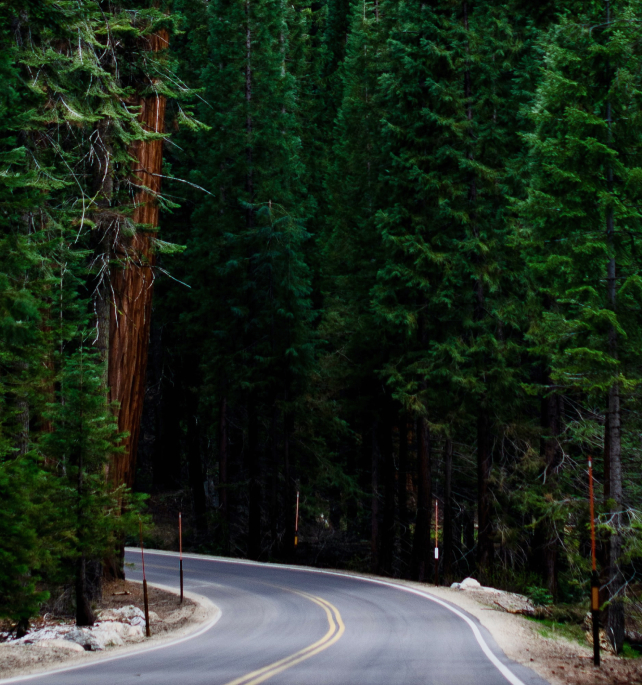
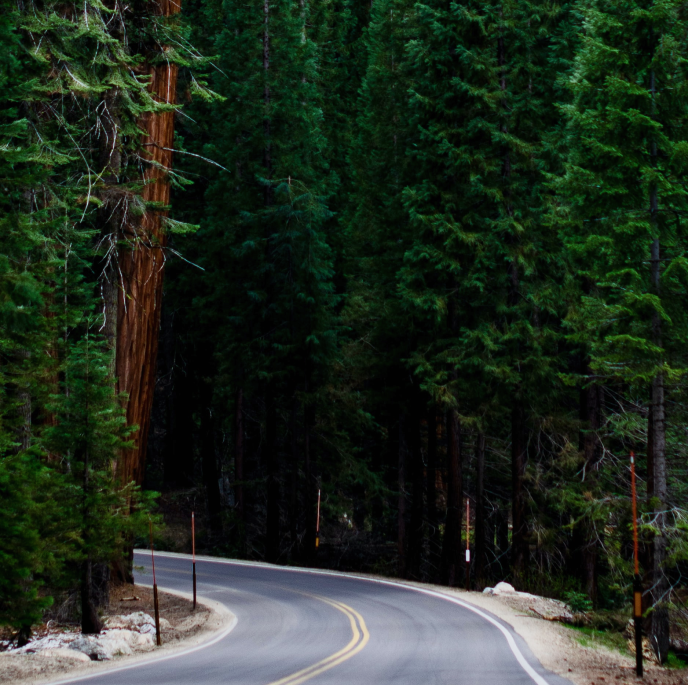
Twelfth commit

diff --git a/index.html b/index.html
@@ -52,12 +52,33 @@
         <h1 class="course__title">Курс по фотографии</h1>
         <img class="course__image"   src="./images/Лес _1_пр.png" alt="Лес">
         <p class="course__subtitle">Фотография в природных условиях, уроки по композиции и по пользованию камерой.</p>
-        <button class="course__button" type="button" aria-label="Открывает котнтен Подробнее">Подробнее</button>
+        <button class="button" type="button" aria-label="Открывает котнтен Подробнее">Подробнее</button>
       </section>
 
       <!-- Второй блок Изучите композицию -->
       <section class="composition">
+        <div class="composition__intro">
+          <p class="composition__intro-line"></p>
+          <p class="composition__text">Композиция</p>
+          <h2 class="composition__title">Изучите композицию</h2>
+        </div>
+       <img class="composition__image composition__image_hidden" src="./images/Лес и дорога_2_1.jpg" alt="Дорога в густом лесу">
+       <img class="composition__image composition__image_show" src="./images/Лес и дорога_2.jpg" alt="Дорога в густом лесу">
+        <div class="composition__info">
+          <p class="composition__info-text">Вы изучите гармоничное размещение всех элементов изображения на <span class="composition__info-text-bold">снимке</span>.</p>
+          <p class="composition__info-text">Изучите композицию интуитивную и&nbsp;какие-&nbsp;то определённые законы.</p>
+          <button class="button button_write-down" type="button" aria-label="Открывает котнтен Записаться">Записаться</button>
+        </div>
 
+        <div class="composition__footer">
+          <p class="composition__footer-text">Првило третей, при котором нужно распологать объекты на пересечениях.</p>
+          <p class="composition__footer-line"></p>
+          <p class="composition__footer-text">Простота: убирай всё лишнее и&nbsp;кадрируй!</p>
+          <p class="composition__footer-line"></p>
+          <p class="composition__footer-text">Равновесие: уравновесь пятна объекта и фона.</p>
+          <p class="composition__footer-line"></p>
+          <p class="composition__footer-text">3D глубина кадра: расположи объект позади и перед другими предметами.</p>
+        </div>
       </section>
 
       <!-- Третий блок Настройка, Сьемка, Обработка -->

diff --git a/pages/index.css b/pages/index.css
@@ -34,6 +34,7 @@
 @import url(../blocks/course/__title/course__title.css);
 @import url(../blocks/course/__image/course__image.css);
 @import url(../blocks/course/__subtitle/course__subtitle.css);
+@import url(../blocks/button/button.css);
 @import url(../blocks/course/__button/course__button.css);
 
 
@@ -41,6 +42,19 @@
 
 /* Второй блок Изучите композицию */
 @import url(../blocks/composition/composition.css);
+@import url(../blocks/composition/__intro-line/composition__intro-line.css);
+@import url(../blocks/composition/__text/composition__text.css);
+@import url(../blocks/composition/__title/composition__title.css);
+@import url(../blocks/composition/__info/composition__info.css);
+@import url(../blocks/composition/__info-text/composition__info-text.css);
+@import url(../blocks/composition/__info-text-bold/composition__info-text-bold.css);
+@import url(../blocks/composition/__image/composition__image.css);
+@import url(../blocks/composition/_hidden/composition__image_hidden.css);
+@import url(../blocks/composition/_show/composition__image_show.css);
+@import url(../blocks/button/_write-down/button_write-down.css);
+@import url(../blocks/composition/__footer/composition__footer.css);
+@import url(../blocks/composition/__footer-text/composition__footer-text.css);
+@import url(../blocks/composition/__footer-line/composition__footer-line.css);
 
 
 

diff --git a/blocks/composition/composition.css b/blocks/composition/composition.css
@@ -1,2 +1,28 @@
 /* Самые общие стили блока composition */
+.composition {
+  /* border: 1px solid black; */
+  background: #FFCE00;
+  padding: 50px;
+  display: grid;
+  grid-template-columns: repeat(2, 1fr);
+  grid-template-rows: min-content 1fr min-content;
+}
 
+@media screen and (max-width: 999px) {
+  .composition {
+    padding-top: 38px;
+    padding-left: 38px;
+    padding-bottom: 39px;
+    grid-template-columns: 1fr;
+    grid-template-rows: repeat(4, auto);
+  }
+}
+
+@media screen and (max-width: 499px) {
+  .composition {
+    padding-top: 20px;
+    padding-bottom: 20px;
+    padding-right: 18px;
+    padding-left: 19px;
+  }
+}

diff --git a/blocks/button/button.css b/blocks/button/button.css
@@ -1,28 +1,24 @@
-.course__button {
+/* стили кнопки */
+.button {
   background: #fff;
   border: 2px solid #000;
   border-radius: 9999px;
   line-height: 29px;
   font-size: 18px;
   font-weight: 400;
-  justify-self: start;
-  align-self: end;
-  /* padding-top: 10px;
-  padding-bottom: 10px; */
   width: 228px;
   height: 49px;
   cursor: pointer;
   transition: 0.1s;
- 
 }
 
-.course__button:hover {
+.button:hover {
   font-weight: 500;
 }
 
 
 @media screen and (max-width: 499px) {
-  .course__button {
+  .button {
     line-height: 28px;
     font-size: 14px;
     width: 169px;

diff --git a/blocks/composition/__footer/composition__footer.css b/blocks/composition/__footer/composition__footer.css
@@ -1,0 +1,24 @@
+/* стили подвала блока */
+.composition__footer {
+  margin-top: 100px;
+  padding-left: 4px;
+  padding-right: 4px;
+  grid-column: 1/3;
+  grid-row: 3/4;
+  display: grid;
+  grid-template-columns: repeat(4, 1fr);
+  grid-template-rows: 1fr;
+  column-gap: 56px;
+}
+
+@media screen and (max-width: 999px) {
+  .composition__footer {
+    /* border: 1px solid red; */
+    column-gap: 0px;
+    margin-top: 80px;
+    grid-column: 1/2;
+    grid-row: 4/5;
+    grid-template-columns: 1fr;
+    grid-template-rows: repeat(7, auto);
+  }
+}

diff --git a/blocks/composition/__title/composition__title.css b/blocks/composition/__title/composition__title.css
@@ -1,0 +1,26 @@
+/* стили заголовка блока композиция */
+.composition__title {
+  /* border: 1px solid blue; */
+  margin: 0;
+  margin-top: 50px;
+  margin-bottom: 100px;
+  max-width: 403px;
+  line-height: 64px;
+  font-size: 64px;
+  font-weight: 400;
+}
+
+@media screen and (max-width: 999px) {
+  .composition__title {
+    margin-top: 40px;
+    margin-bottom: 60px;
+  }
+}
+
+@media screen and (max-width: 499px) {
+  .composition__title {
+    line-height: 38px;
+    font-size: 30px;
+    margin-top: 30px;
+  }
+}

diff --git a/blocks/composition/__info/composition__info.css b/blocks/composition/__info/composition__info.css
@@ -1,0 +1,25 @@
+/* стили блока info */
+.composition__info {
+  /* border: 1px solid green; */
+  display: grid;
+  grid-template-columns: 1fr;
+  grid-template-rows: repeat(2, min-content) 1fr;
+  row-gap: 20px;
+  max-width: 370px;
+  grid-column: 1/2;
+}
+
+@media screen and (max-width: 999px) {
+  .composition__info {
+    max-width: 375px;
+    margin-top: 60px;
+    row-gap: 20px;
+  }
+}
+
+@media screen and (max-width: 499px) {
+  .composition__info {
+    margin-top: 54px;
+    row-gap: 30px;
+  }
+}

diff --git a/blocks/composition/__footer-text/composition__footer-text.css b/blocks/composition/__footer-text/composition__footer-text.css
@@ -1,0 +1,24 @@
+/* стили текста в подвале блока */
+.composition__footer-text {
+  /* border: 1px solid blue; */
+  margin: 0;
+  max-width: 291px;
+  line-height: 28px;
+  font-size: 18px;
+  font-weight: 400;
+}
+
+@media screen and (max-width: 999px) {
+  .composition__footer-text {
+    max-width: 690px;
+  }
+}
+
+@media screen and (max-width: 499px) {
+  .composition__footer-text {
+    /* max-width: 290px; */
+    line-height: 18px;
+    font-size: 14px;
+  }
+}
+

diff --git a/blocks/composition/__footer-line/composition__footer-line.css b/blocks/composition/__footer-line/composition__footer-line.css
@@ -1,0 +1,21 @@
+/* стили линий , котрые появляются начиная с 768 */
+.composition__footer-line {
+  display: none;
+}
+
+@media screen and (max-width: 999px) {
+  .composition__footer-line {
+    display: block;
+    margin: 0;
+    margin-top: 30px;
+    margin-bottom: 30px;
+    border-bottom: 1px solid #000;
+  }
+}
+
+@media screen and (max-width: 499px) {
+  .composition__footer-line {
+    margin-top: 14px;
+    margin-bottom: 13px;
+  }
+}

diff --git a/blocks/composition/__info-text/composition__info-text.css b/blocks/composition/__info-text/composition__info-text.css
@@ -1,0 +1,19 @@
+/* стили текста в блоке info */
+.composition__info-text {
+  /* border: 1px solid red; */
+  margin: 0;
+  margin-left: 4px;
+  line-height: 28px;
+  font-size: 18px;
+  font-weight: 400;
+ 
+}
+
+@media screen and (max-width: 499px) {
+  .composition__info-text {
+    margin-top: 6px;
+    line-height: 18px;
+    font-size: 14px;
+    margin-left: 2px;
+  }
+}

diff --git a/blocks/composition/__text/composition__text.css b/blocks/composition/__text/composition__text.css
@@ -1,0 +1,19 @@
+/* стили надписи КОМПОЗИЦИЯ */
+.composition__text {
+  /* border: 1px solid red; */
+  margin: 0;
+  margin-left: 4px;
+  text-transform: uppercase;
+  line-height: 28px;
+  font-size: 18px;
+  font-weight: 400;
+}
+
+
+@media screen and (max-width: 499px) {
+  .composition__text{
+    line-height: 20px;
+    font-size: 14px;
+    margin-left: 2px;
+  }
+}

diff --git a/blocks/composition/__image/composition__image.css b/blocks/composition/__image/composition__image.css
@@ -1,0 +1,23 @@
+
+.composition__image {
+  max-width: 642px;
+  grid-row: 1/3;
+  grid-column: 2/3;
+  justify-self: end;
+}
+
+@media screen and (max-width: 999px) {
+  .composition__image {
+    max-width: 688px;
+    grid-row: 2/3;
+    grid-column: 1/2;
+    justify-self: end;
+  }
+}
+
+@media screen and (max-width: 499px) {
+  .composition__image {
+    max-width: 280px;
+    
+  }
+}
